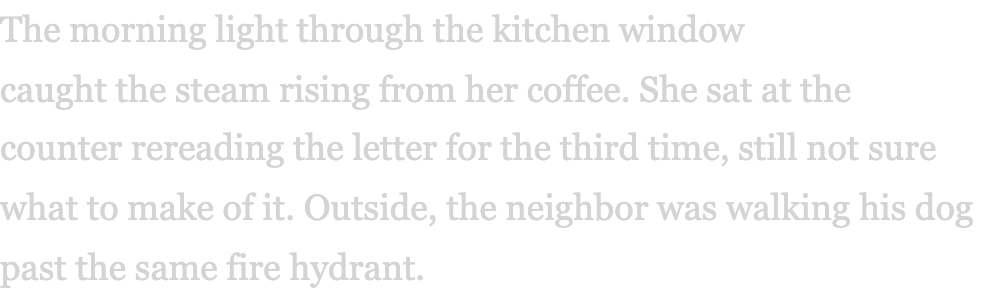
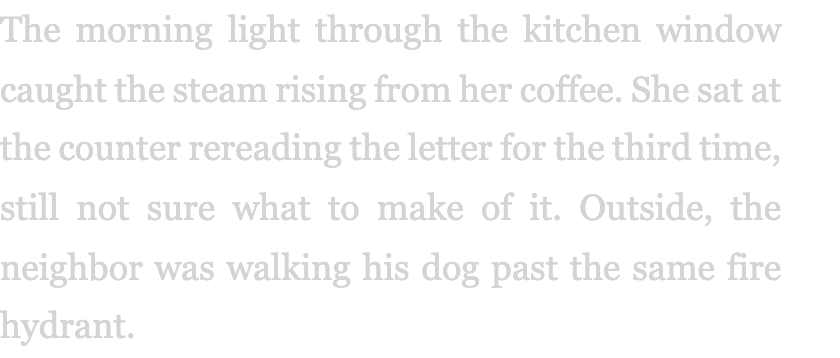
Real rag smoothing: per-line word-spacing adjustment, not just nbsp grouping

Changed region(s): [[0.0, 0.2114, 0.9905, 0.8154], [0.0, 0.0302, 0.9286, 0.1812], [0.0, 0.8456, 0.4333, 0.9664]]

diff --git a/src/app/rules-data.tsx b/src/app/rules-data.tsx
@@ -39,21 +39,18 @@ export const rules: Rule[] = [
     name: "Rag Smoothing",
     id: "rag",
     description:
-      "Without rag control, line lengths vary wildly \u2014 one line fills the column, the next has two words. Smoothing creates even line lengths for a cleaner right edge.",
-    code: `export function smoothRag(text: string, target = 65): string {
-  const words = text.split(" ");
-  let len = 0;
-  const out: string[] = [];
-  for (const w of words) {
-    if (len > 0 && len + w.length + 1 > target) {
-      out.push("\\u00A0" + w);
-      len = w.length;
-    } else {
-      out.push((len > 0 ? " " : "") + w);
-      len += w.length + (len > 0 ? 1 : 0);
-    }
-  }
-  return out.join("");
+      "Without rag control, line lengths vary wildly \u2014 one line barely reaches half the column while the next fills it completely. Smoothing adjusts word-spacing line by line, gently extending short lines and tightening long ones to create a cleaner right edge.",
+    code: `export function smoothRag(el: HTMLElement): void {
+  const target = el.offsetWidth * 0.93;
+  const lines = getLines(el); // detect line breaks via Range API
+  lines.forEach((line, i) => {
+    if (i === lines.length - 1) return; // leave last line alone
+    const gap = target - line.width;
+    const spaces = (line.text.match(/ /g) || []).length;
+    if (!spaces) return;
+    const ws = gap / spaces; // px per word space
+    wrapLine(line, \`word-spacing: \${ws.toFixed(2)}px\`);
+  });
 }`,
   },
   {
